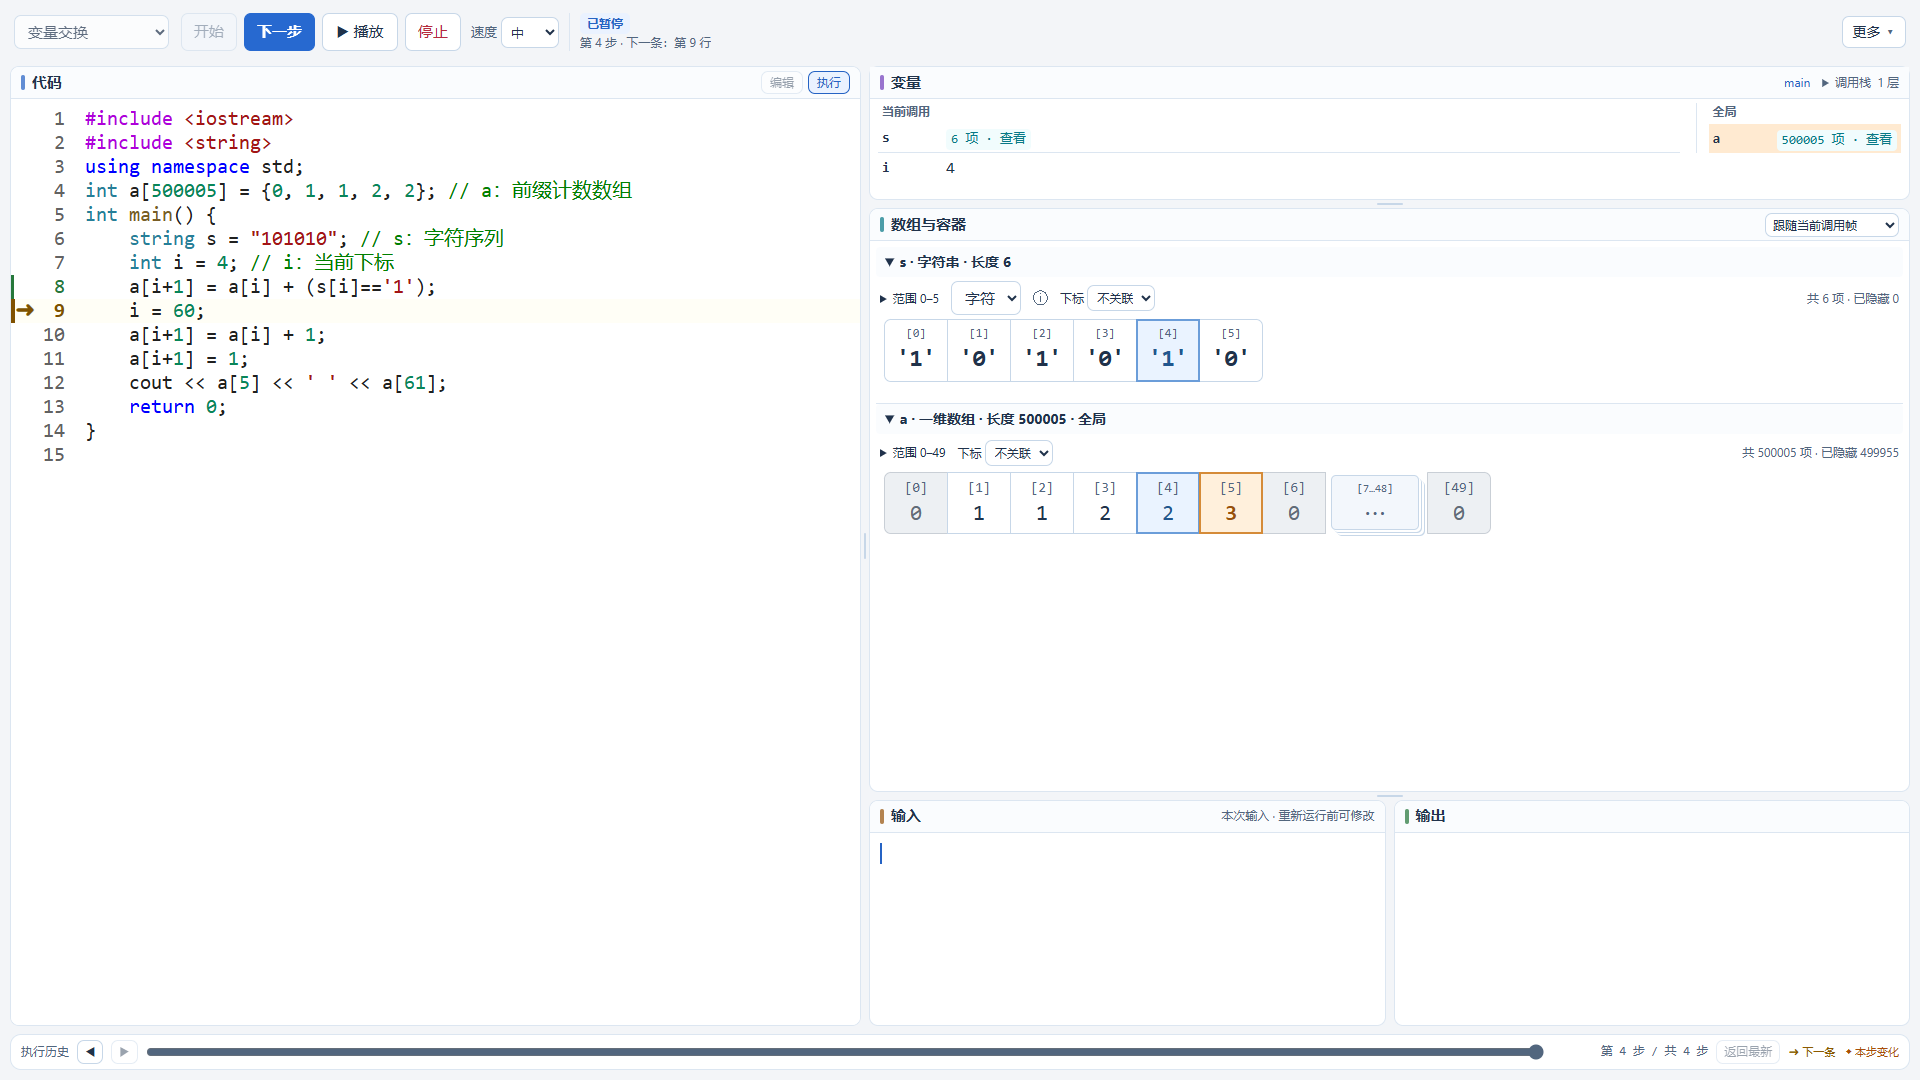
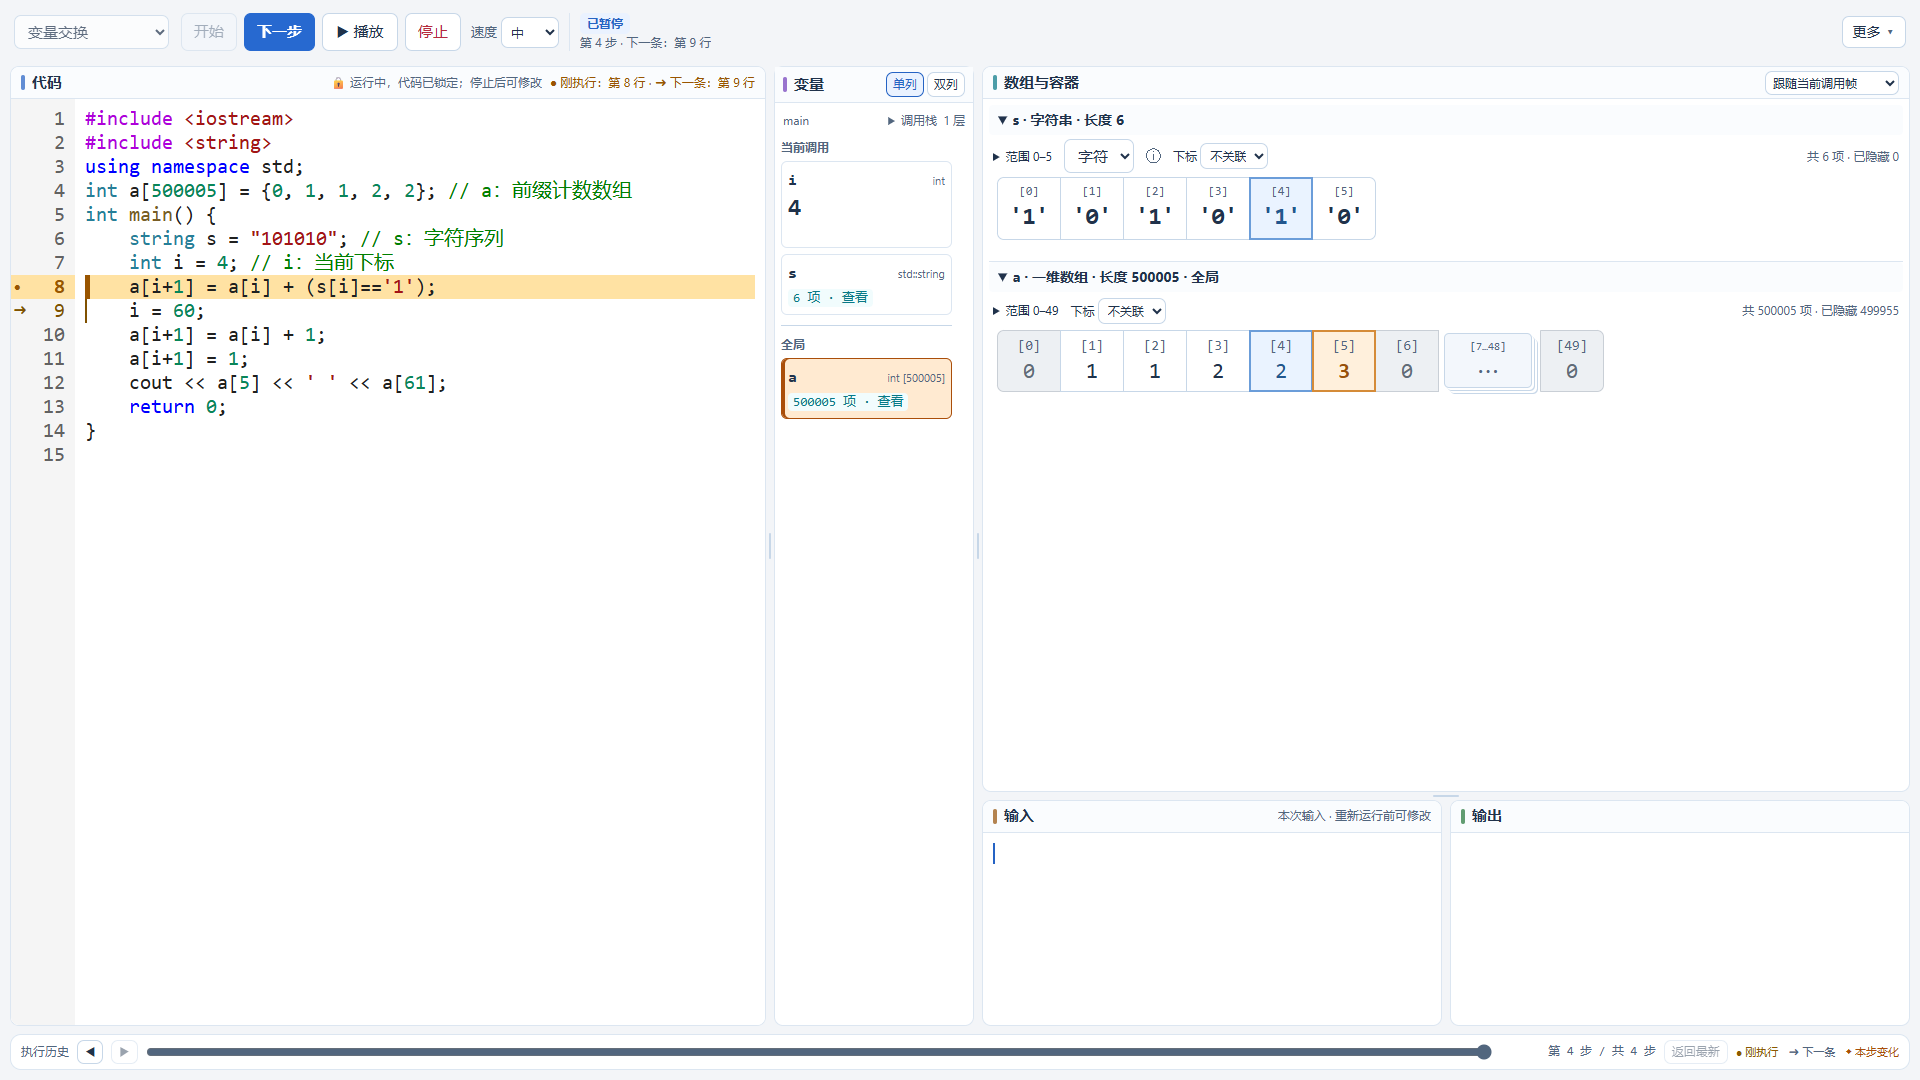
更新代码锁定与刚执行高亮的教学说明和截图

diff --git a/docs/代码实验台-老师使用说明.md b/docs/代码实验台-老师使用说明.md
@@ -40,7 +40,7 @@ icon: 🧪
 
 运行状态与下一条行号紧随顶部运行操作；播放和暂停共用一个按钮位置，随运行状态切换。输入须在开始前一次性填好，暂停时不追加输入。底部“执行历史”显示实际执行步数；回看时标明“正在回看历史”，点击“返回最新”回到当前运行现场。
 
-各区域用标题旁的颜色标记区分：代码蓝、变量紫、数组青、输入琥珀、输出绿。黄色箭头表示下一条待执行代码，橙色表示本步变化，青色轮廓与指针表示老师关联的下标位置；下标指示不代表已经确认发生了读写。
+各区域用标题旁的颜色标记区分：代码蓝、变量紫、数组青、输入琥珀、输出绿。代码区主高亮表示刚执行的代码，较轻的箭头表示下一条待执行代码；橙色表示本步变化，青色轮廓与指针表示老师关联的下标位置；下标指示不代表已经确认发生了读写。
 
 一维数组始终为一条，较长时在数组内部横向滚动；二维数组按真实行列排列。切换窗口会标明未读取与省略部分。普通刷新保留滚动位置；单步确认读写位置时自动定位到相关格子，源与目标距离过远时优先显示写入目标。
 
@@ -54,17 +54,23 @@ icon: 🧪
 
 已确认数值为 0 的数组格子用灰色弱化，仍然是有效的数值；本步发生变化时优先显示橙色，下标轮廓也会保留。数组卡片“范围 → 展示前”可设置 1–200 个元素，从下标 0 开始展示，超出的数量明确标为隐藏；这项操作不执行代码。应用后的前缀设置可随课例保存，并在重新运行、载入课例后恢复。
 
-“更多 → 代码配色”可选 VS Code Light+、VS Code Dark+、Dracula；默认浅色，编辑与执行视图均按 C++ 语法着色。代码主题只影响代码区域，保存在本机，也随课例保存。注释、字符串、数字和关键字分别着色，未完成的代码仍可正常编辑。
+“更多 → 代码配色”可选 VS Code Light+、VS Code Dark+、Dracula；默认浅色，代码区始终按 C++ 语法着色。代码主题只影响代码区域，保存在本机，也随课例保存。注释、字符串、数字和关键字分别着色，未完成的代码仍可正常编辑。
 
 “更多 → 动效”可选标准、减少、关闭，偏好保存在本机。标准模式尊重系统减少动态效果设置；快播放简化动效，历史回看立即显示选中状态。运行结束的勾选仅表示程序正常结束。
 
 输入高亮本步读取的字符，输出高亮本步新增字符；历史回看同步还原。读取位置无法确认时不标记。数组与容器默认展开，“范围”中可调整读取范围。
 
-**高亮行是下一条待执行语句**，变量是已执行的结果。未初始化或不能确认的值会屏蔽：灰色“待确认”表示暂时无法证明数值有效，红色“未赋值”表示已确认声明后尚未初始化，教学时应提醒在声明时初始化变量。首次获得确定值也使用橙色变化高亮，旁边显示“待确认 → 数值”或“未赋值 → 数值”；下一步未再变化就恢复普通样式。历史回看保留该步高亮，但不重复播放动画。单行标准 `cin` 输入成功后显示真实数值，复制该数值的变量也会正常显示；输入失败或不足时仍会保留未确认提示。数组默认显示 50 格，大数组按窗口读取；下标关联由老师选择。
+**主高亮表示刚执行的代码**，与变量、数组和输出的当前结果对应；较轻的箭头指向下一条待执行语句。刚开始尚未执行时只显示下一条提示。执行位置依据真实单步记录，不按行号减一推测。未初始化或不能确认的值会屏蔽：灰色“待确认”表示暂时无法证明数值有效，红色“未赋值”表示已确认声明后尚未初始化，教学时应提醒在声明时初始化变量。首次获得确定值也使用橙色变化高亮，旁边显示“待确认 → 数值”或“未赋值 → 数值”；下一步未再变化就恢复普通样式。历史回看保留该步高亮，但不重复播放动画。单行标准 `cin` 输入成功后显示真实数值，复制该数值的变量也会正常显示；输入失败或不足时仍会保留未确认提示。数组默认显示 50 格，大数组按窗口读取；下标关联由老师选择。
 
 ## 下课
 
 先保存课例，关闭实验台标签页，再双击 `stop.bat`，或在启动窗口按 **Ctrl+C**。窗口提示“已停止”后，所属 GCC/GDB、学生程序和临时文件均已清理。关标签页只关闭当前调试会话，服务可继续给下一节课使用。强制关闭窗口由 Windows 回收所属进程；来不及删除的本次临时目录在下次启动回收。
+
+## 代码编辑与运行锁定
+
+代码区不再区分“编辑／执行”模式，载入课例后可直接修改。点击“开始”即锁定代码，编译、单步等待、播放和暂停期间均不可修改；鼠标移入时显示禁止修改指针，标题旁说明锁定原因。代码仍可滚动、选择和复制。停止完成、运行结束或编译失败后自动恢复编辑。回看历史时先点击“返回最新”；连接中断、执行结果未知时保持锁定，重新连接后重新运行。
+
+停止或结束后保留运行结果便于讲解；首次修改代码或输入时清除旧执行高亮、变量与历史，避免把旧结果误认为新代码的执行结果。旧课例中的编辑／执行模式设置不再影响代码区，载入完成后默认可编辑。
 
 ## 安装与离线
 

diff --git a/docs/开发说明.md b/docs/开发说明.md
@@ -46,6 +46,8 @@ Python 开发环境统一为项目根目录 `.venv`，依赖由 `requirements.tx
 ## 快照与展示约定
 
 - `line` 是下一条待执行语句，变量值是暂停时已经形成的状态；不能把两者误标为同一步动作。
+- 代码区始终使用同一 textarea 与语法叠层；编辑权限由真实运行状态、请求状态与历史位置决定。编译、运行、暂停、历史回看及执行结果未知时只读，仍允许选择与复制。课例载入入口使用同一锁定规则，文件异步读取期间也锁定开始与编辑。
+- 主高亮“刚执行”来自同一运行中相邻快照的单步起点 `previous.line`，不是 `line - 1`；仅对 `next/step` 的已暂停或正常完成结果显示。通过稳定 `frame.id` 判断进入函数，未完成的调用表达式不标为刚执行；首次启动、人工停止和结果不确定时不推测执行行。行级单步可能跨越多条语句，高亮表示本步推进的源码起点，不表示完整语句追踪。
 - `frames` 使用稳定调用实例身份；变量身份同时包含运行、调用实例、声明与作用域，不能只按变量名匹配。递归、遮蔽和全局变量须分别处理。
 - `state` 区分 `ok`、`uninitialized`、`unavailable`、`out_of_scope`。无法证明初始化、读取失败或作用域外的 `value` 为 `null`，不展示栈槽垃圾值。确认标准 `cin` 输入时以真实流状态为依据，不额外调用用户程序的方法。
 - 数值以字符串传输，64 位整数不经过 JavaScript 浮点转换。`changed` 表示可靠前后值不同，`previousValue` 保留前值；值状态变化单独处理。

diff --git a/README.md b/README.md
@@ -8,7 +8,7 @@
 
 ![代码实验台：蓝色格子表示读取，橙色格子表示写入](docs/images/prefix-access.png)
 
-上图展示 `a[i+1] = a[i] + (s[i]=='1');` 执行后的状态：`a[i]` 和 `s[i]` 以蓝色标出，写入目标 `a[i+1]` 以橙色标出。黄色代码箭头表示**下一条待执行语句**。
+上图展示 `a[i+1] = a[i] + (s[i]=='1');` 执行后的状态：`a[i]` 和 `s[i]` 以蓝色标出，写入目标 `a[i+1]` 以橙色标出。代码区以醒目的整行高亮强调**刚执行的代码**，较轻的箭头提示下一条待执行语句。
 
 ## 可以用它做什么
 
@@ -78,7 +78,8 @@ Python 环境统一放在根目录 `.venv`，依赖版本由 `requirements.txt` 
 
 | 需要了解 | 说明 |
 | --- | --- |
-| 代码位置 | 黄色箭头表示下一条待执行语句；变量和数组显示已经执行的状态。 |
+| 代码位置 | 主高亮表示刚执行的代码，与变量和数组的当前结果对应；较轻的箭头表示下一条待执行语句。 |
+| 代码编辑 | 默认可编辑；从开始编译到运行结束保持锁定，暂停时也不能修改。停止或结束后自动恢复编辑；回看历史时须先返回最新。 |
 | 数组高亮 | 蓝色表示读取，橙色表示写入，紫色表示本步用作函数实参；历史回看还原当步标记。 |
 | 重复值折叠 | 叠片 `⋯` 格子可点击展开、再次点击收起；只折叠当前窗口内已读取的确定值。 |
 | 大数组 | 默认读取 50 个元素，窗口最多 200 个；不会一次读取整个大数组。 |
